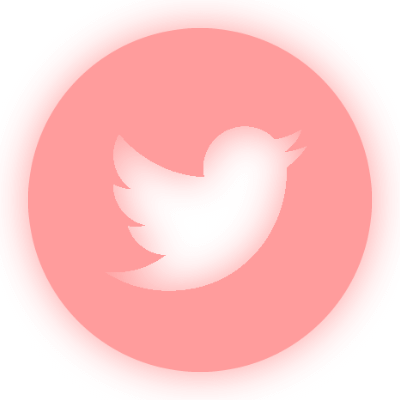
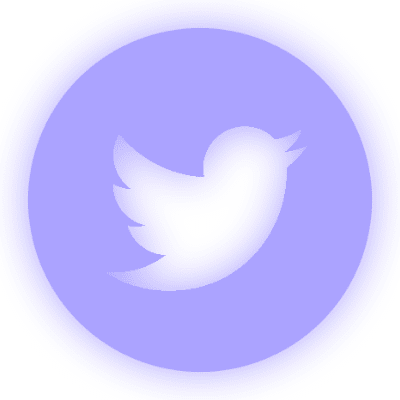
fix

diff --git a/src/components/home.vue b/src/components/home.vue
@@ -64,7 +64,7 @@
 }
 .btn-control{
     position: fixed;
-    background-color: #ff7b7bc2;/*背景颜色*/
+    background-color: #7f5bffc2;/*背景颜色*/
     border: 0px; /*边框去除*/
     border-radius: 17px;/*边框圆角*/
     max-width: 100%;
@@ -77,7 +77,7 @@
     text-align: center;
 }
 .btn-control:hover,.btn-control:focus{
-    background-color:#ff7b7be5
+    background-color:#7f5bff
 }
 .btn-ctrldft{/*今日随机按钮*/
     background-image: linear-gradient(to bottom right,rgb(255, 223, 119),rgb(255, 203, 32)) ;
@@ -95,8 +95,8 @@
     white-space: normal !important;
 }
 .btn-ctrldft:active,.btn-ctrldft:focus{/*宣传中心按钮选定*/
-    background-image: linear-gradient(to top left,rgb(255, 184, 184),rgb(255, 156, 156)) ;
-    color: rgb(255, 228, 228);
+    background-image: linear-gradient(to top left,rgb(255, 223, 119),rgb(255, 203, 32)) ;
+    color: rgb(255, 252, 228);
 }
 .btn-ctrldft:hover{
     box-shadow: 0 0 5px 5px rgba(255, 255, 255, 0.397);
@@ -116,7 +116,7 @@
     margin-bottom: 12px;
 }
 .btn-body-status{/*播放状态分类标题*/
-    background-color: #ff7d7d;
+    background-color: #aa7dff;
     color: #fff;
     text-align: center;
     position: fixed;
@@ -172,11 +172,11 @@
     white-space: normal !important;
 }
 .btn-new:active,.btn-new:focus{
-    color: rgb(255, 204, 204);
-    background-image: linear-gradient(to top left,rgba(255, 120, 120, 0.836),rgba(255, 71, 71, 0.836));
+    color: rgb(229, 229, 151);
+    background-image: linear-gradient(to top left,#ffbb62,#ff8c00);
 }
 .btn-new:hover{
-    box-shadow: 0px 0px 5px 5px rgba(252, 120, 120, 0.322);
+    box-shadow: 0px 0px 5px 5px rgba(252, 221, 120, 0.322);
 }
 .checkbox {
     display: inline-block;

diff --git a/src/App.vue b/src/App.vue
@@ -86,7 +86,7 @@
 }
 .navbar{ 
     box-shadow: 0 5px 10px 0px rgba(0, 0, 0, 0.151);
-    background-color: rgba(34, 34, 34, 0.205);/*顶栏部分*/
+    background-color: rgba(139, 112, 72, 0.521);/*顶栏部分*/
     margin: 15px;
 }
 .navbar-fixed-top{ 
